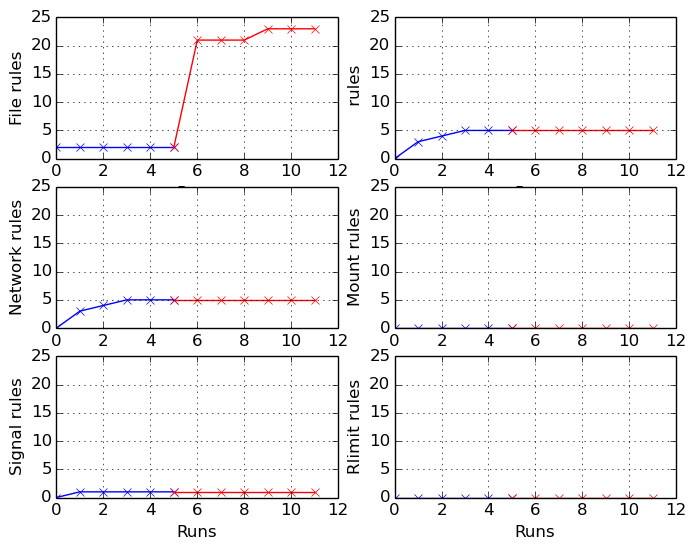
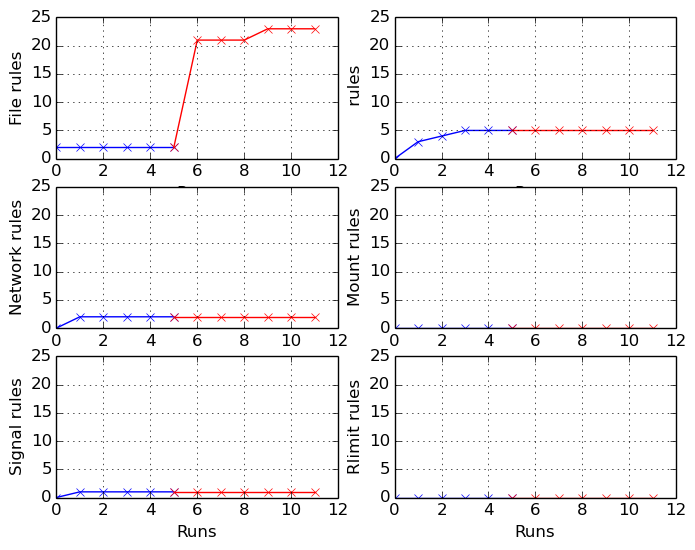
All plot scripts are ready. New images

Changed region(s): [[0.0906, 0.5255, 0.4532, 0.5873]]

diff --git a/Parser/metrics/plot_type_rules.py b/Parser/metrics/plot_type_rules.py
@@ -144,15 +144,14 @@ ax1.set_xlabel("Runs")
 ax1.set_ylabel(r" rules")
 ax1.set_ylim(0,max_value+2)
 
-
 #Network
 ax2 = fig.add_subplot(323)                                             
 part_1c = []
 part_2c = []
 for x1 in range(enforce+1):                                            
-        part_1c.append(capabilities[x1])                               
+        part_1c.append(network[x1])                               
 for x1 in range(enforce,int(num_of_runs)):                             
-        part_2c.append(capabilities[x1])                               
+        part_2c.append(network[x1])                               
 ax2.plot(compl_rules, part_1c, label="network", color="b", marker='x')
 ax2.plot(enf_rules, part_2c, label="network", color="r", marker='x')
 ax2.grid()                                                             

diff --git a/Parser/metrics/plot_rules_total.py b/Parser/metrics/plot_rules_total.py
@@ -64,7 +64,7 @@ plt.savefig("../../parser_output/rules.png",bbox_inches="tight")
 enforce = 5 #Read this from bash script
 
 fig = plt.figure()
-ax1 = fig.add_subplot(311)
+
 part_1a = []
 part_1b = []
 part_1c = []
@@ -83,6 +83,7 @@ for x1 in range(enforce,int(num_of_runs)):
     part_2b.append(rules[1][x1])
     part_2c.append(rules[2][x1])
 
+ax1 = fig.add_subplot(311)
 ax1.plot(compl_rules, part_1a, label="dataset", color="blue", marker='x') 
 ax1.plot(enf_rules, part_2a, label="dataset", color="red", marker='x')
 
@@ -95,6 +96,8 @@ ax3.plot(compl_rules, part_1c, label="client", color="blue", marker='x')
 ax3.plot(enf_rules, part_2c, label="client", color="red", marker='x')
 
 ax1.grid()
+ax2.grid()
+ax3.grid()
 ax3.set_xlabel("Runs")
 ax1.set_ylabel(r"Rules")
 ax2.set_ylabel(r"Rules")
